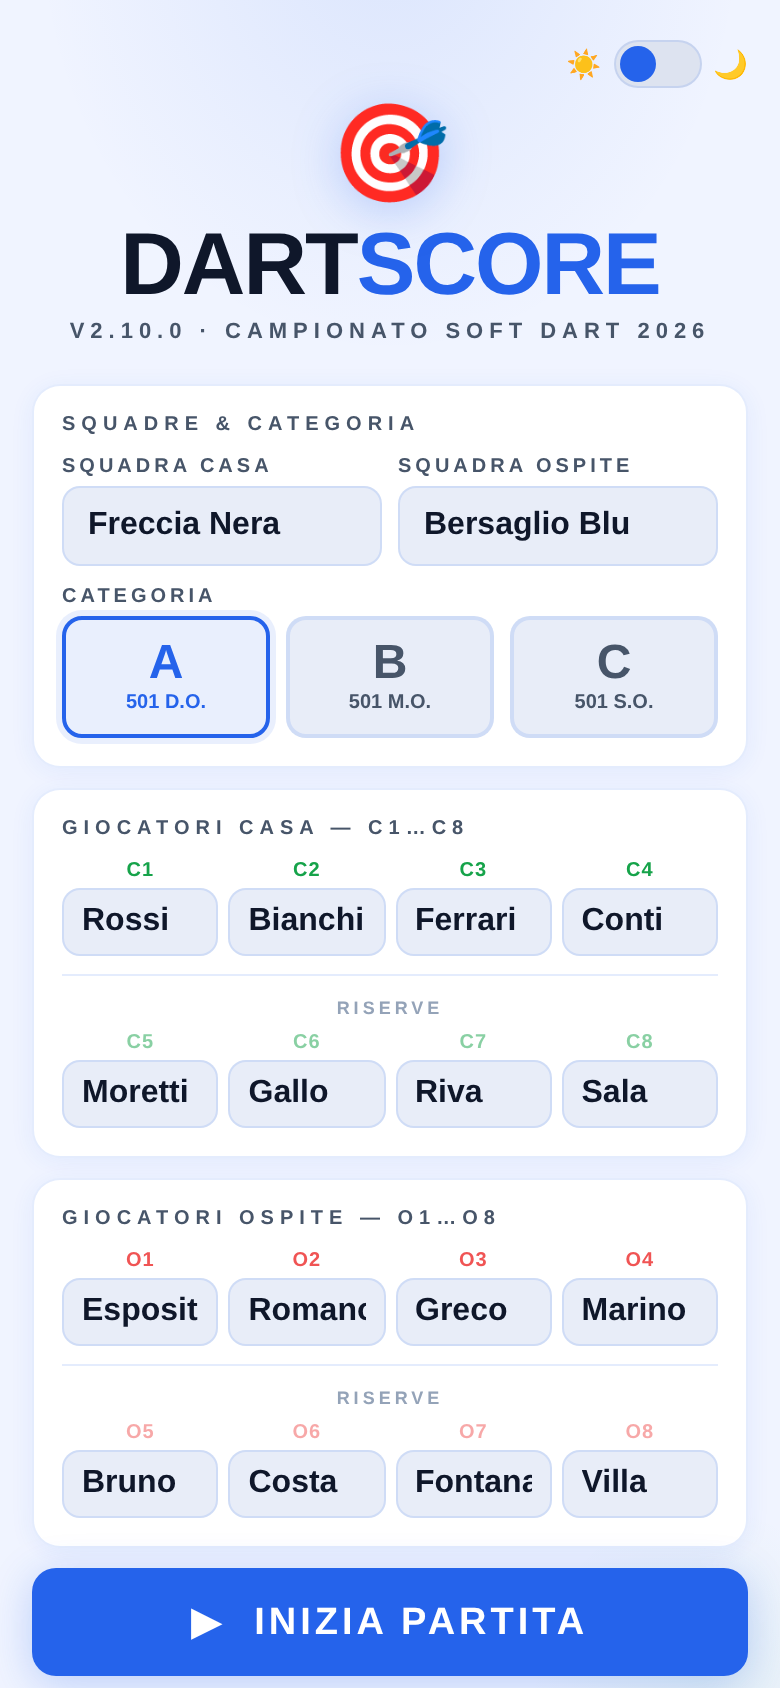
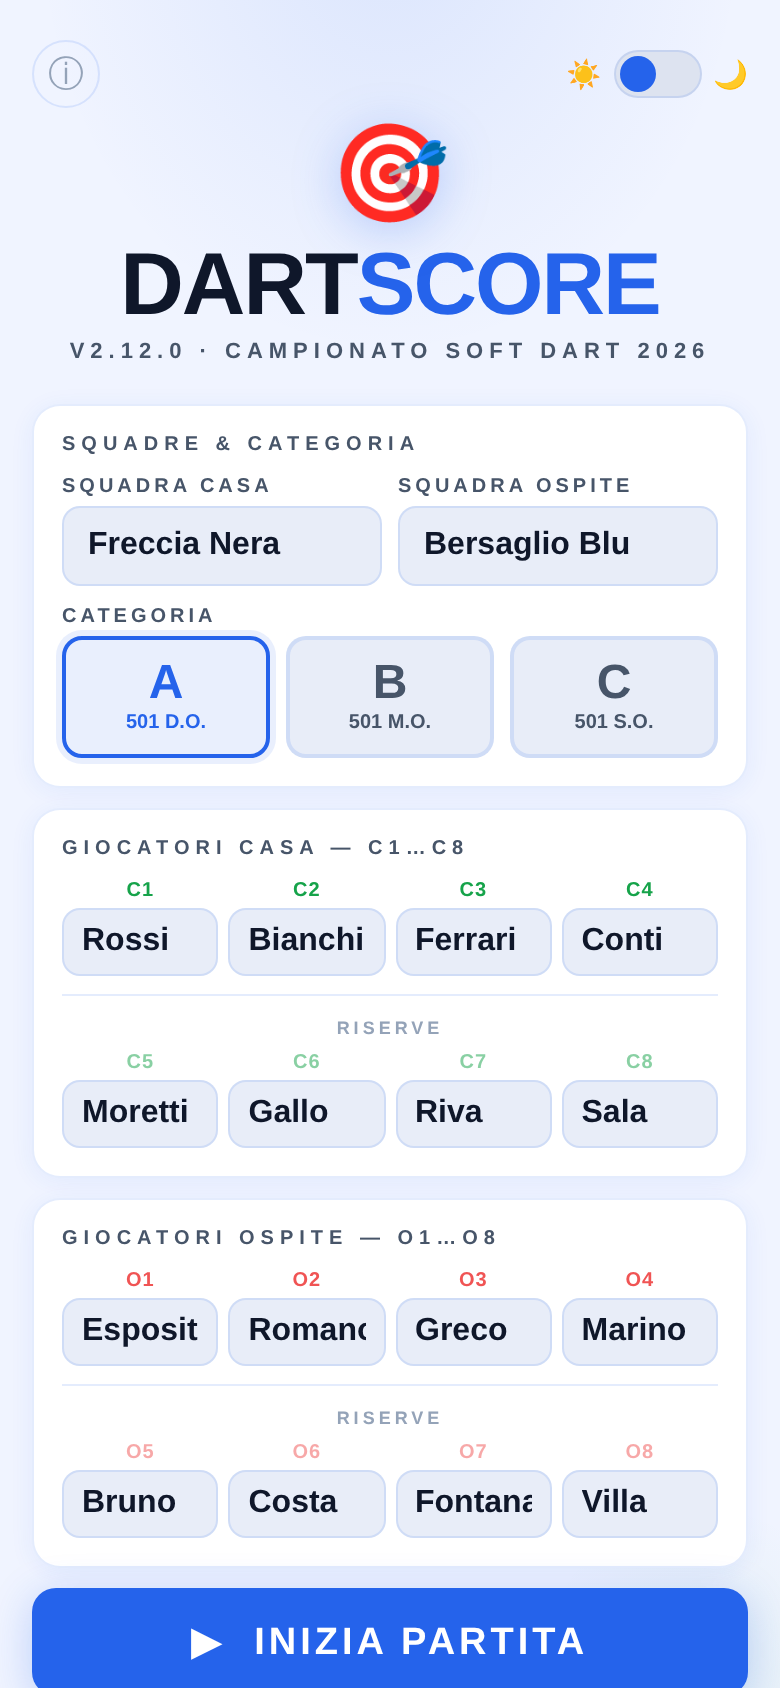
Guida anche in alto, titoli per la ricerca, screenshot aggiornato
- Tasto ⓘ in alto a sinistra, accanto al selettore del tema: chi apre
  l'app la prima volta lo vede senza dover scorrere fino in fondo. Ha
  un aria-label perche' e' solo un'icona, e apre la stessa guida.
- <title> e meta description di app e index.html riscritti per i motori
  di ricerca: prima il titolo era solo "DartScore 2026". Ora nomina
  referto gara, segnapunti, freccette, Soft Dart e FIGeST.
- In stampa printRiepilogo() rimette il titolo breve: il browser lo usa
  come nome del PDF salvato e nell'intestazione di pagina. Si ripristina
  all'evento afterprint, e stampare piu' volte non accumula ascoltatori.
- README: titolo "DartScore" (era "DARTS SCORE") e prima frase con le
  parole che si cercano davvero.
- docs/screenshot-setup.png rigenerato: ora mostra la ⓘ e la v2.12.0,
  stessa inquadratura e stessi nomi di fantasia.

Impronta FIGeST identica byte per byte, tests.html 69 su 69.

Claude-Session: https://claude.ai/code/session_01BraY2k2gzHaX9Cp6mtBnzH

diff --git a/Darts_Score.html b/Darts_Score.html
@@ -10,7 +10,7 @@
 <meta name="apple-mobile-web-app-status-bar-style" content="default">
 <meta name="apple-mobile-web-app-title" content="DartScore">
 <meta name="format-detection" content="telephone=no">
-<meta name="description" content="App referto gara per il Campionato Soft Dart 2026. Gestisci set, leg, sostituzioni e classifica direttamente dal browser, senza installazione.">
+<meta name="description" content="Segnapunti e referto gara digitale per il campionato di freccette Soft Dart FIGeST 2026: set, leg, sostituzioni e classifica. Gratis, dal browser, senza installazione.">
 <meta property="og:title" content="DartScore 2026">
 <meta property="og:description" content="Referto gara digitale per il Campionato Soft Dart 2026. Scaricabile per l'uso offline, zero installazioni.">
 <meta property="og:type" content="website">
@@ -24,7 +24,7 @@
      l'esecuzione di script da origini esterne (CDN, injected ads, ecc.). -->
 <meta http-equiv="Content-Security-Policy"
       content="default-src 'none'; style-src 'unsafe-inline'; script-src 'unsafe-inline';">
-<title>DartScore 2026</title>
+<title>DartScore — Referto gara e segnapunti per freccette Soft Dart FIGeST 2026</title>
 <style>
 :root {
   color-scheme: light;
@@ -461,6 +461,8 @@ input,select { font-family:inherit; font-size:16px!important; touch-action:manip
 .dark .theme-toggle { background:var(--az); }
 .dark .theme-toggle::after { transform:translateX(20px); background:#fff; }
 .theme-wrap { display:flex; align-items:center; gap:6px; }
+.btn-info { width:34px; height:34px; padding:0; border-radius:50%; background:none; border:1.5px solid var(--br); color:var(--tm); font-size:18px; line-height:1; display:flex; align-items:center; justify-content:center; transition:all .12s; }
+.btn-info:active { background:var(--azd); color:var(--az); border-color:rgba(37,99,235,.3); transform:scale(.95); }
 .theme-icon { font-size:14px; line-height:1; }
 
 /* Banner stato partita nel setup */
@@ -569,7 +571,8 @@ input,select { font-family:inherit; font-size:16px!important; touch-action:manip
 
 <!-- SETUP -->
 <div id="setup" class="scr on">
-  <div style="display:flex;justify-content:flex-end;padding:0 0 4px">
+  <div style="display:flex;justify-content:space-between;align-items:center;padding:0 0 4px">
+    <button class="btn-info" onclick="openGuida()" aria-label="Guida all'uso">&#9432;</button>
     <div class="theme-wrap">
       <span class="theme-icon">☀</span>
       <button class="theme-toggle" onclick="toggleTheme()" aria-label="Cambia tema"></button>
@@ -901,13 +904,17 @@ input,select { font-family:inherit; font-size:16px!important; touch-action:manip
  * ─────────────────────────────────────────────────────────────────────────────
  * MODIFICHE v2.12.0 rispetto a v2.11.0 (solo interfaccia: il calcolo del
  * referto non cambia):
- *   - Guida all'uso: nuovo tasto "Guida" nella schermata iniziale, apre un
+ *   - Guida all'uso: nuovo tasto "Guida" nella schermata iniziale (in alto
+ *     accanto al tema e in basso accanto a Impostazioni), apre un
  *     pannello con il funzionamento dell'app (squadre, leg, punti, cambi,
  *     nomi, riepilogo, salvataggio, impostazioni). Riusa la macchina dei
  *     modali: dialogo accessibile, Esc, focus restituito.
  *   - La guida descrive le regole PREDEFINITE (FIGeST 2026) e lo dichiara in
  *     apertura. I numeri citati sono marcati data-def e tests.html li
  *     confronta con DEFAULT_CFG, cosi' non possono divergere in silenzio.
+ *   - <title> e meta description riscritti per i motori di ricerca. In stampa
+ *     printRiepilogo() rimette il titolo breve, che il browser usa come nome
+ *     del PDF, e lo ripristina all'evento afterprint.
  * ─────────────────────────────────────────────────────────────────────────────
  * Lo storico delle versioni precedenti è in CHANGELOG.md:
  *   https://github.com/Fanza-vibes/DARTSCORE/blob/main/CHANGELOG.md
@@ -1719,6 +1726,14 @@ function printRiepilogo(){
   if(ftr) ftr.textContent='DartScore 2026 \xb7 v'+APP_VERSION+' \u2014 Generato il '+oggi+' alle '+ora;
   /* renderizza classifica completa (entrambe le squadre) per la stampa */
   renderPrintClassifica();
+  /* Il <title> e' lungo per i motori di ricerca, ma il browser lo usa come
+     nome del PDF salvato e nell'intestazione di stampa: durante la stampa
+     torna il nome breve di sempre, e si ripristina a stampa chiusa. */
+  const titolo=document.title;
+  document.title='DartScore 2026';
+  window.addEventListener('afterprint',function ripristina(){
+    document.title=titolo; window.removeEventListener('afterprint',ripristina);
+  });
   /* apri dialogo stampa nativo */
   window.print();
 }

diff --git a/index.html b/index.html
@@ -4,8 +4,8 @@
 <meta charset="UTF-8">
 <meta name="viewport" content="width=device-width,initial-scale=1.0">
 <meta http-equiv="refresh" content="0; url=Darts_Score.html">
-<title>DartScore 2026</title>
-<meta name="description" content="Referto gara digitale per il Campionato Soft Dart 2026. Gestisci set, leg, sostituzioni e classifica direttamente dal browser, senza installazione.">
+<title>DartScore — Referto gara e segnapunti per freccette Soft Dart FIGeST 2026</title>
+<meta name="description" content="Segnapunti e referto gara digitale per il campionato di freccette Soft Dart FIGeST 2026: set, leg, sostituzioni e classifica. Gratis, dal browser, senza installazione.">
 <link rel="canonical" href="https://fanza-vibes.github.io/DARTSCORE/Darts_Score.html">
 <!-- Open Graph: devono stare QUI e non solo nel file dell'app. Il link che
      viene condiviso e' la radice del sito, che serve questa pagina; i crawler

diff --git a/CHANGELOG.md b/CHANGELOG.md
@@ -10,10 +10,11 @@ Il file dell'app è [`Darts_Score.html`](Darts_Score.html): il nome resta stabil
 
 Una guida all'uso dentro l'app. **Il calcolo del referto non cambia**: calendario, punteggi, classifica e somma di controllo sono identici, verificati byte per byte con i predefiniti FIGeST.
 
-- **Nuovo tasto ⓘ Guida** nella schermata iniziale. Apre un pannello che spiega in otto punti come si usa l'app: squadre e giocatori, come si segnano i leg, come si calcolano i punti individuali e il risultato della gara, cambi, correzione dei nomi, riepilogo e stampa, salvataggio automatico, impostazioni
+- **Nuovo tasto ⓘ Guida** nella schermata iniziale, sia in alto accanto al selettore del tema sia in basso accanto a Impostazioni. Apre un pannello che spiega in otto punti come si usa l'app: squadre e giocatori, come si segnano i leg, come si calcolano i punti individuali e il risultato della gara, cambi, correzione dei nomi, riepilogo e stampa, salvataggio automatico, impostazioni
 - La guida descrive le **regole predefinite** del regolamento FIGeST 2026 e lo dichiara in apertura: con impostazioni personalizzate alcuni numeri possono essere diversi
 - Il pannello è un dialogo accessibile come gli altri: si chiude con **Esc**, con la ✕ o toccando fuori, il Tab resta confinato e il focus torna al tasto
 - [`tests.html`](https://fanza-vibes.github.io/DARTSCORE/tests.html) confronta ogni numero citato nella guida con la configurazione predefinita: se un giorno cambiano i predefiniti e la guida resta indietro, la verifica fallisce e la release si blocca
+- **Titolo e descrizione delle pagine pensati per la ricerca**: prima il titolo era solo "DartScore 2026", senza nessuna delle parole che si cercano davvero. Ora nomina referto gara, segnapunti, freccette, Soft Dart e FIGeST. Durante la stampa torna il nome breve, perché il browser usa il titolo come nome del PDF salvato
 
 ---
 

diff --git a/README.md b/README.md
@@ -1,6 +1,6 @@
-# DARTS SCORE
+# DartScore
 
-App web per il calcolo dei punteggi nelle partite di freccette.
+Referto gara digitale e segnapunti per freccette **Soft Dart**, conforme al regolamento **FIGeST 2026**. Gratis, senza installazione: si usa dal browser o si scarica per giocare offline.
 
 ## ▶ Apri l'app online
 
@@ -18,7 +18,7 @@ Nessuna installazione necessaria. Si apre direttamente nel browser.
 
 ## Descrizione
 
-Darts Score è un'applicazione single-page pensata per calcolare in modo rapido e preciso i punteggi di una partita di freccette, gestendo automaticamente set, leg, squadre e giocatori secondo il regolamento ufficiale FIGeST 2026.
+DartScore è un'applicazione single-page pensata per calcolare in modo rapido e preciso i punteggi di una partita di freccette, gestendo automaticamente set, leg, squadre e giocatori secondo il regolamento ufficiale FIGeST 2026.
 
 ### Funzionalità principali
 
